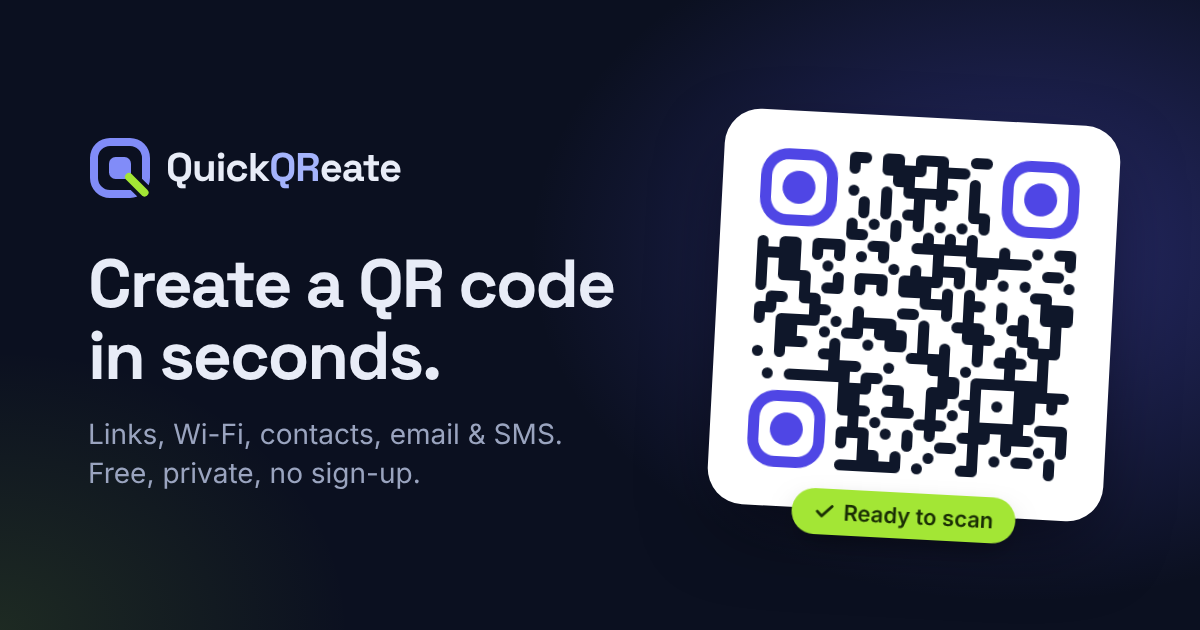
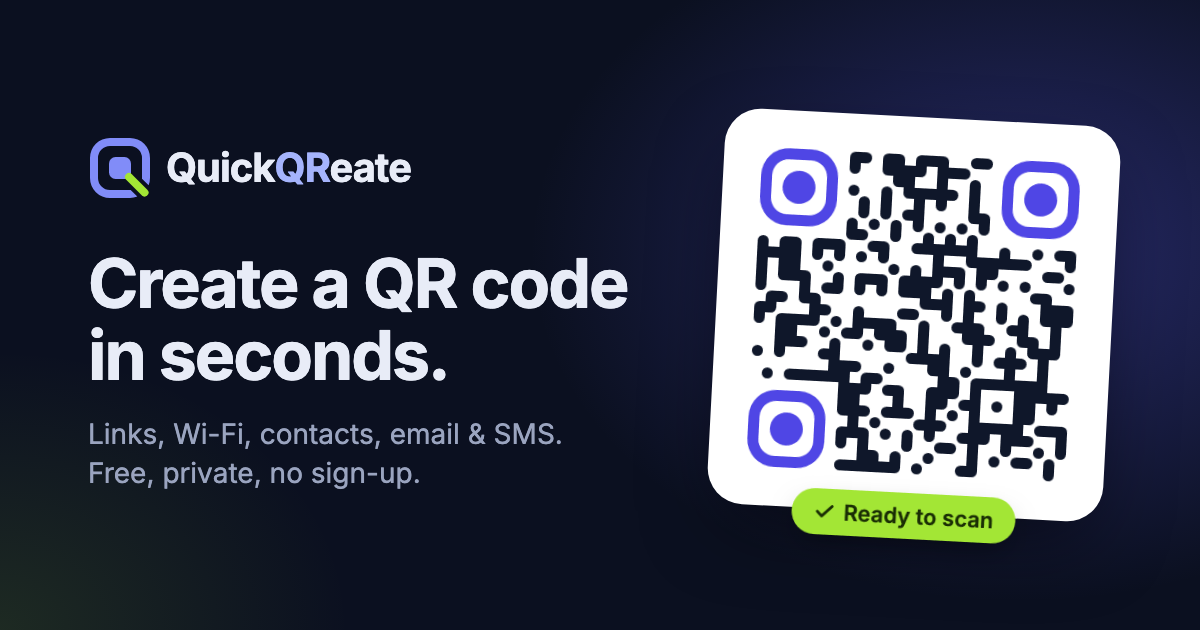
Tidy up after the app shell
Readable toast check icon, 44px phone targets, the account button named
by its visible text, old #api-keys bookmarks and email links pointing at
current pages, the brand script on Inter (brand images regenerated), a
CI timeout for the signed-in tests, and the spec's field-border colors
corrected.

diff --git a/public/email-templates/email-change.html b/public/email-templates/email-change.html
@@ -20,8 +20,8 @@
               <td style="padding:8px 32px 0;">
                 <h1 style="margin:0 0 12px;font-size:22px;line-height:1.3;color:#0f172a;">Confirm your new email</h1>
                 <p style="margin:0 0 24px;font-size:15px;line-height:1.6;color:#475569;">Confirm that you want to change your QuickQReate sign-in email from {{ .Email }} to {{ .NewEmail }}.</p>
-                <a href="{{ .SiteURL }}/auth/confirm?token_hash={{ .TokenHash }}&amp;type=email_change&amp;next=/account" style="display:inline-block;background:#4f46e5;color:#ffffff;text-decoration:none;font-weight:600;font-size:15px;padding:12px 22px;border-radius:12px;">Confirm new email</a>
-                <p style="margin:24px 0 0;font-size:13px;line-height:1.6;color:#64748b;">If the button doesn't work, copy this link into your browser:<br /><a href="{{ .SiteURL }}/auth/confirm?token_hash={{ .TokenHash }}&amp;type=email_change&amp;next=/account" style="color:#4338ca;word-break:break-all;">{{ .SiteURL }}/auth/confirm?token_hash={{ .TokenHash }}&amp;type=email_change&amp;next=/account</a></p>
+                <a href="{{ .SiteURL }}/auth/confirm?token_hash={{ .TokenHash }}&amp;type=email_change&amp;next=/settings" style="display:inline-block;background:#4f46e5;color:#ffffff;text-decoration:none;font-weight:600;font-size:15px;padding:12px 22px;border-radius:12px;">Confirm new email</a>
+                <p style="margin:24px 0 0;font-size:13px;line-height:1.6;color:#64748b;">If the button doesn't work, copy this link into your browser:<br /><a href="{{ .SiteURL }}/auth/confirm?token_hash={{ .TokenHash }}&amp;type=email_change&amp;next=/settings" style="color:#4338ca;word-break:break-all;">{{ .SiteURL }}/auth/confirm?token_hash={{ .TokenHash }}&amp;type=email_change&amp;next=/settings</a></p>
               </td>
             </tr>
             <tr>

diff --git a/public/email-templates/magic-link.html b/public/email-templates/magic-link.html
@@ -20,8 +20,8 @@
               <td style="padding:8px 32px 0;">
                 <h1 style="margin:0 0 12px;font-size:22px;line-height:1.3;color:#0f172a;">Your sign-in link</h1>
                 <p style="margin:0 0 24px;font-size:15px;line-height:1.6;color:#475569;">Use this link to sign in to QuickQReate as {{ .Email }}. It works once and expires soon.</p>
-                <a href="{{ .SiteURL }}/auth/confirm?token_hash={{ .TokenHash }}&amp;type=magiclink&amp;next=/dashboard" style="display:inline-block;background:#4f46e5;color:#ffffff;text-decoration:none;font-weight:600;font-size:15px;padding:12px 22px;border-radius:12px;">Sign in</a>
-                <p style="margin:24px 0 0;font-size:13px;line-height:1.6;color:#64748b;">If the button doesn't work, copy this link into your browser:<br /><a href="{{ .SiteURL }}/auth/confirm?token_hash={{ .TokenHash }}&amp;type=magiclink&amp;next=/dashboard" style="color:#4338ca;word-break:break-all;">{{ .SiteURL }}/auth/confirm?token_hash={{ .TokenHash }}&amp;type=magiclink&amp;next=/dashboard</a></p>
+                <a href="{{ .SiteURL }}/auth/confirm?token_hash={{ .TokenHash }}&amp;type=magiclink&amp;next=/codes" style="display:inline-block;background:#4f46e5;color:#ffffff;text-decoration:none;font-weight:600;font-size:15px;padding:12px 22px;border-radius:12px;">Sign in</a>
+                <p style="margin:24px 0 0;font-size:13px;line-height:1.6;color:#64748b;">If the button doesn't work, copy this link into your browser:<br /><a href="{{ .SiteURL }}/auth/confirm?token_hash={{ .TokenHash }}&amp;type=magiclink&amp;next=/codes" style="color:#4338ca;word-break:break-all;">{{ .SiteURL }}/auth/confirm?token_hash={{ .TokenHash }}&amp;type=magiclink&amp;next=/codes</a></p>
               </td>
             </tr>
             <tr>

diff --git a/app/(app)/settings/page.tsx b/app/(app)/settings/page.tsx
@@ -5,6 +5,8 @@ import { ProfileForm } from "@/features/auth/ProfileForm";
 import { googlePhotoOf } from "@/features/profile/googlePhoto";
 import { requireUser } from "@/lib/auth/server";
 
+import { HashRedirect } from "./HashRedirect";
+
 export const metadata: Metadata = { title: "Profile · Settings · QuickQReate" };
 
 export default async function ProfileSettingsPage() {
@@ -15,17 +17,20 @@ export default async function ProfileSettingsPage() {
     .eq("id", user.id)
     .maybeSingle();
   return (
-    <SettingsSection
-      title="Profile"
-      description="Your photo and name show to your team and in invites you send."
-    >
-      <ProfileForm
-        userId={user.id}
-        email={user.email ?? ""}
-        initialName={profile?.display_name ?? ""}
-        avatarUrl={profile?.avatar_url ?? null}
-        googlePhoto={googlePhotoOf(user)}
-      />
-    </SettingsSection>
+    <>
+      <HashRedirect />
+      <SettingsSection
+        title="Profile"
+        description="Your photo and name show to your team and in invites you send."
+      >
+        <ProfileForm
+          userId={user.id}
+          email={user.email ?? ""}
+          initialName={profile?.display_name ?? ""}
+          avatarUrl={profile?.avatar_url ?? null}
+          googlePhoto={googlePhotoOf(user)}
+        />
+      </SettingsSection>
+    </>
   );
 }

diff --git a/components/app/AppShell.tsx b/components/app/AppShell.tsx
@@ -38,7 +38,7 @@ interface NavItem {
 }
 
 const sideLinkClass =
-  "flex min-h-10 items-center gap-3 rounded-control px-2.5 text-sm font-medium text-fg-muted hover:bg-surface-2 hover:text-fg aria-[current=page]:bg-surface-2 aria-[current=page]:font-semibold aria-[current=page]:text-fg focus-ring [&_svg]:size-5 [&_svg]:shrink-0";
+  "flex min-h-11 items-center gap-3 rounded-control px-2.5 text-sm font-medium text-fg-muted hover:bg-surface-2 hover:text-fg aria-[current=page]:bg-surface-2 aria-[current=page]:font-semibold aria-[current=page]:text-fg focus-ring [&_svg]:size-5 [&_svg]:shrink-0";
 
 const tabClass =
   "flex min-h-14 flex-col items-center justify-center gap-0.5 text-[13px] font-medium text-fg-muted aria-[current=page]:text-fg focus-ring [&_svg]:size-5";
@@ -223,7 +223,7 @@ export function AppShell({
         <Link
           href={codesHref}
           aria-label="QuickQReate codes"
-          className="rounded-control focus-ring"
+          className="grid size-11 place-items-center rounded-control focus-ring"
         >
           <LogoMark className="size-7" />
         </Link>

diff --git a/e2e/accounts/app.spec.ts b/e2e/accounts/app.spec.ts
@@ -138,6 +138,12 @@ test.describe("signed in as an owner", () => {
     }
     await expect(tabs.getByRole("button", { name: "More" })).toBeVisible();
     await expect(page.getByRole("complementary", { name: "Sidebar" })).toBeHidden();
+    const logo = page.getByRole("banner").getByRole("link", { name: "QuickQReate codes" });
+    expect((await logo.boundingBox())!.height).toBeGreaterThanOrEqual(44);
+    await tabs.getByRole("button", { name: "More" }).click();
+    for (const link of await page.getByRole("dialog", { name: "More" }).getByRole("link").all()) {
+      expect((await link.boundingBox())!.height).toBeGreaterThanOrEqual(44);
+    }
   });
 });
 

diff --git a/components/ui/Toast.tsx b/components/ui/Toast.tsx
@@ -40,7 +40,7 @@ export function ToastProvider({ children }: { children: ReactNode }) {
             className="pointer-events-auto flex max-w-sm items-center gap-2 rounded-full border border-border bg-fg px-4 py-2.5 text-sm font-medium text-bg shadow-pop"
           >
             {toast.tone === "success" ? (
-              <CheckCircle2 aria-hidden className="size-4 shrink-0 text-success" />
+              <CheckCircle2 aria-hidden className="size-4 shrink-0 text-success-soft" />
             ) : (
               <CircleAlert aria-hidden className="size-4 shrink-0 text-danger-soft" />
             )}

diff --git a/public/email-templates/templates.test.ts b/public/email-templates/templates.test.ts
@@ -1,0 +1,14 @@
+import { readdirSync, readFileSync } from "node:fs";
+import { resolve } from "node:path";
+import { describe, expect, it } from "vitest";
+
+const DIR = resolve(process.cwd(), "public/email-templates");
+
+describe("email templates", () => {
+  it("link only to current app addresses", () => {
+    for (const file of readdirSync(DIR).filter((name) => name.endsWith(".html"))) {
+      const html = readFileSync(resolve(DIR, file), "utf8");
+      expect(html, file).not.toMatch(/next=\/dashboard|next=\/account(?!\/update-password)/);
+    }
+  });
+});

diff --git a/app/(app)/settings/HashRedirect.test.tsx b/app/(app)/settings/HashRedirect.test.tsx
@@ -1,0 +1,16 @@
+import { render } from "@testing-library/react";
+import { describe, expect, it, vi } from "vitest";
+
+import { HashRedirect } from "./HashRedirect";
+
+const replace = vi.fn();
+vi.mock("next/navigation", () => ({ useRouter: () => ({ replace }) }));
+
+describe("HashRedirect", () => {
+  it("sends old /account#api-keys links to the API keys tab", () => {
+    window.location.hash = "#api-keys";
+    render(<HashRedirect />);
+    expect(replace).toHaveBeenCalledWith("/settings/api-keys");
+    window.location.hash = "";
+  });
+});

diff --git a/components/app/UserMenu.tsx b/components/app/UserMenu.tsx
@@ -18,7 +18,6 @@ export function UserMenu({ user, collapsed = false }: { user: ShellUser; collaps
     <Menu as="div" className="relative">
       <form id={formId} action="/auth/signout" method="post" hidden />
       <MenuButton
-        aria-label="Account menu"
         className={cn(
           "flex min-h-11 w-full items-center gap-2.5 rounded-control p-2 text-left hover:bg-surface-2 data-focus:outline-2 data-focus:outline-offset-2 data-focus:outline-ring",
           collapsed && "max-lg:justify-center max-lg:p-1",

diff --git a/components/app/UserMenu.test.tsx b/components/app/UserMenu.test.tsx
@@ -12,7 +12,7 @@ describe("UserMenu", () => {
     document.addEventListener("submit", submitted);
     render(<UserMenu user={USER} />);
     await userEvent.tab();
-    expect(screen.getByRole("button", { name: /Account menu/ })).toHaveFocus();
+    expect(screen.getByRole("button", { name: /David Allmon/ })).toHaveFocus();
     await userEvent.keyboard("{Enter}");
     await userEvent.keyboard("{ArrowDown}");
     expect(screen.getByRole("menuitem", { name: "Sign out" })).toHaveAttribute("data-focus");

diff --git a/app/(app)/settings/HashRedirect.tsx b/app/(app)/settings/HashRedirect.tsx
@@ -1,0 +1,13 @@
+"use client";
+
+import { useRouter } from "next/navigation";
+import { useEffect } from "react";
+
+/** Old /account#api-keys bookmarks land on /settings#api-keys; send them to the right tab. */
+export function HashRedirect() {
+  const router = useRouter();
+  useEffect(() => {
+    if (window.location.hash === "#api-keys") router.replace("/settings/api-keys");
+  }, [router]);
+  return null;
+}

diff --git a/docs/superpowers/specs/2026-10-14-quickqreate-redesign-design.md b/docs/superpowers/specs/2026-10-14-quickqreate-redesign-design.md
@@ -272,8 +272,10 @@ The preview column holds the live QR, a scan-reliability check and a **Create co
 
   | Theme | bg | surface | surface-2 | border | field border |
   | --- | --- | --- | --- | --- | --- |
-  | Light | `#ffffff` | `#fcfcfd` | `#f2f4f7` | `#eaecf0` | `#98a2b3` |
-  | Dark | `#0c0d0f` | `#131417` | `#1b1d21` | `#2a2d33` | `#5a606b` |
+  | Light | `#ffffff` | `#fcfcfd` | `#f2f4f7` | `#eaecf0` | `#848d9c` |
+  | Dark | `#0c0d0f` | `#131417` | `#1b1d21` | `#2a2d33` | `#6b7280` |
+
+  Field borders are darker than first proposed so they meet the 3:1 rule below.
 
 - **Text:**
 
